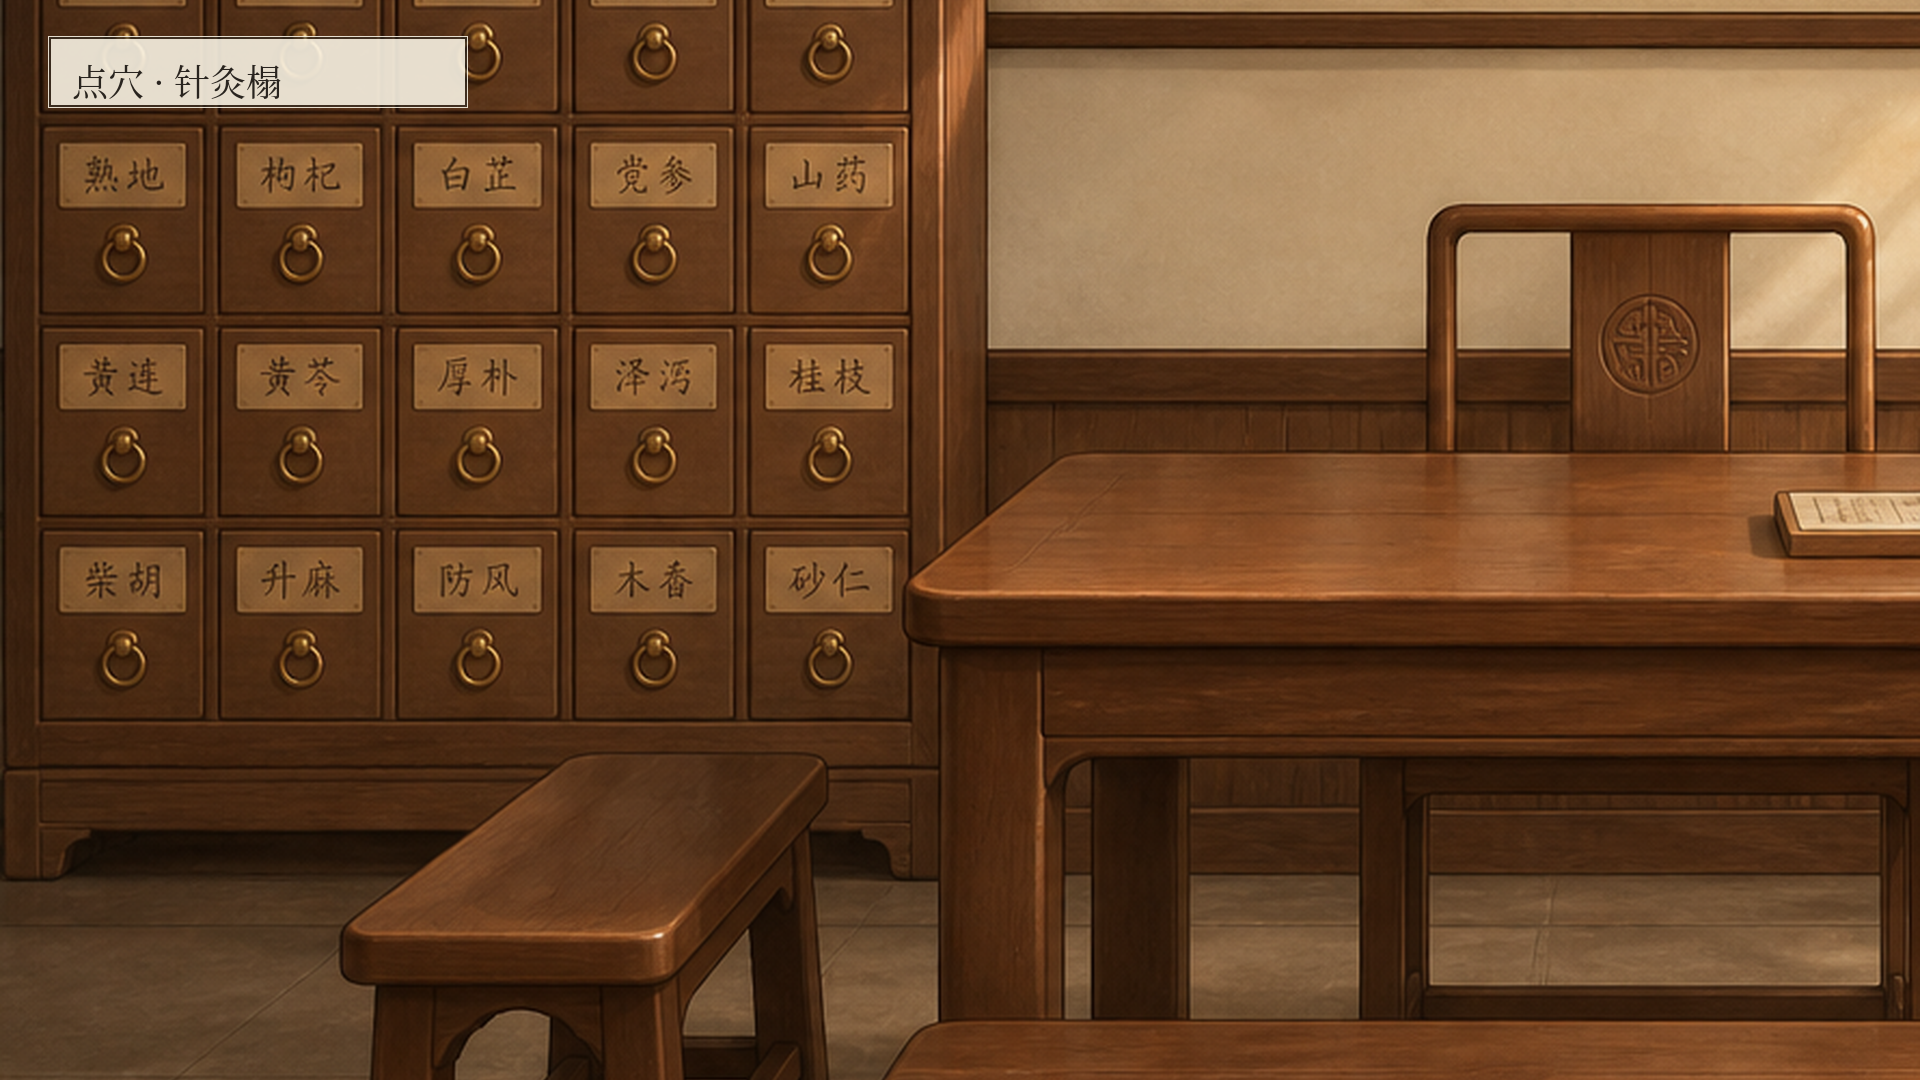
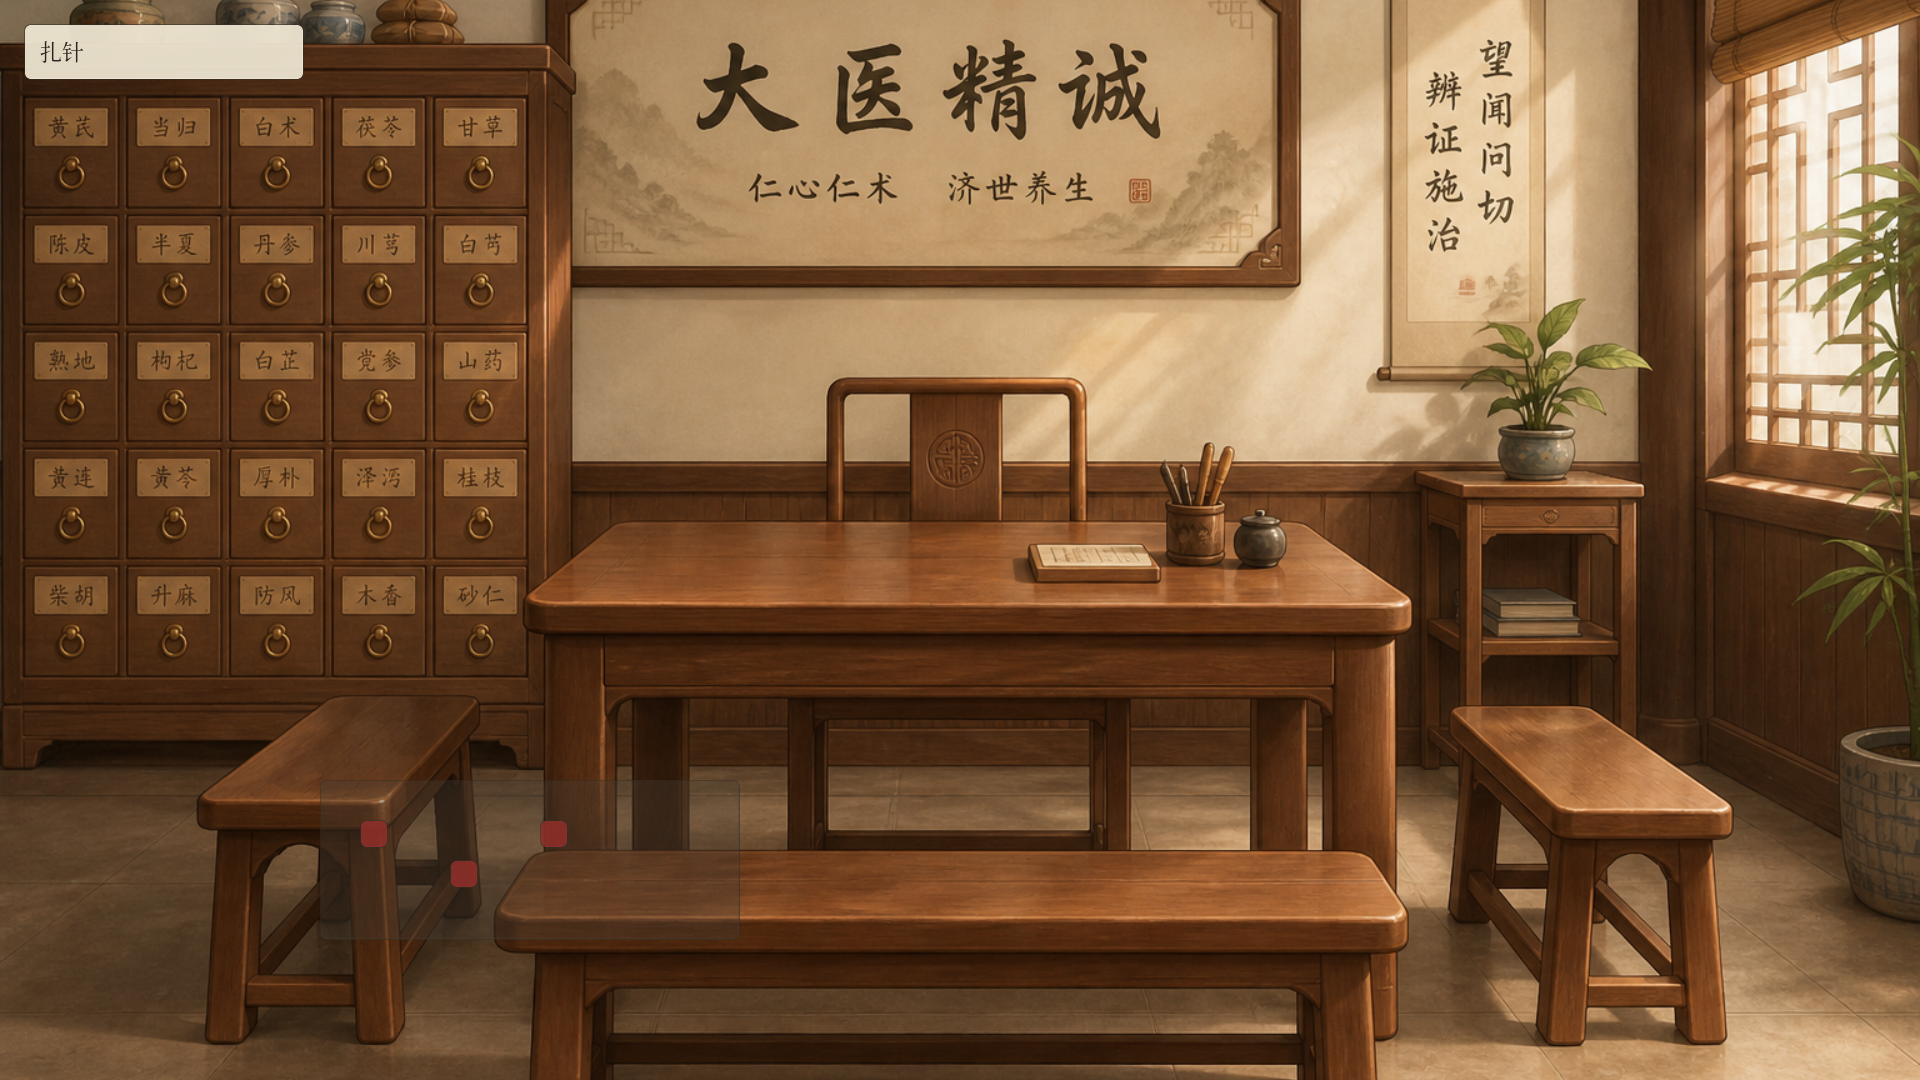
缺问苏问舟旁白入诊室坞；新建筑重截商店 FORMULA/NEEDLE/RESULT。
SMOKE 断言 mentor_missing_ask；附 DEV-TASKS-V120。secrets.env 仍 gitignore。

diff --git a/DEV-TASKS-V120.md b/DEV-TASKS-V120.md
@@ -1,0 +1,60 @@
+# 《墨问岐黄》开发任务 V120（收圆可玩日）
+
+日期：2026-09-06  
+下发：全局统筹 → 开发负责人 → 小组  
+前置：V119 已验收并推送 `01b3fed`  
+依据：设定包 v1.19；本期不扩大到情缘/穿越/全表药材
+
+## 目标
+
+把「杏林小筑可玩日」从冒烟可过，收成 **手操也顺** 的一圈：
+
+开馆免责 → 接阿福（或三案之一）→ 四诊 + 十问 → **缺问时苏问舟真的出旁白** → 开方或扎针（反畏仍硬锁）→ 看到对证分 M / 疗效 → **一句回访或病程钩子** → 可接下一位。
+
+## 完成标准
+
+1. 手操缺「寒热」或「汗」时，苏问舟冒出疑问句旁白（不报方不报证）；补问后可出「这一问有了。」同诊 ≤2 句。
+2. 小荷至少在候诊条或药柜报警时说一句 UI 口吻（仍不代诊、不可点）。
+3. 结算屏能看懂 M（或快/稳/准/温里与 M 对齐的展示），合法路径向愈，反畏拖药仍弹回并给短因。
+4. 治疗后有回访/病程一句（可本地模板，不必接 LLM）。
+5. `./run_godot.sh --headless res://scenes/smoke.tscn` 仍 PASS；新增旁白冒烟（可另加 smoke 断言）。
+6. 推到 `Gideon-li/2dshot-game` main；`secrets.env` 不进库。
+
+## 分工（由你转发）
+
+### 开发负责人
+- 对齐本文件与仓库现状；验收手操一圈；推送。
+- 拦范围：不做情缘、刁难全开、气机透视、节气/地域乘数实装（J=T=1 保持）。
+
+### 游戏逻辑设计
+- 接线：四诊旗 + 十问覆盖 → 触发 `mentor_cue`；同诊计数。
+- 结算展示字段与 `evaluate()` 对齐；回访钩子数据结构（下一次进馆可读）。
+- 小荷代诊仍不做；只留「馆规：低危可代」注释/开关默认关。
+
+### 剧本设计
+- 确认三案 `mentor.case_cues` / `exam_missing_cues` 中英日每条都是疑问句。
+- 小荷候诊/药柜各 ≥3 句短口吻；回访一句/案。
+- 禁止问舟说诊断名、方名。
+
+### 游戏角色开发
+- 运行时真正弹出问舟旁白（现在数据在、要保证 UI 可见）。
+- 小荷 UI 气泡；结算与回访表现。
+- Helix 保持；失败回退。
+
+### 游戏美工设计
+- 问舟旁白气泡、小荷小表情/角标（极简即可）。
+- 若 CAM_ASK 仍是旧图，按江晚+现行病人补一版。
+
+### 游戏场景设计（按需）
+- 仅当旁白/候诊锚点缺热区时补；相机与热区默认不动。
+
+### 其他要素 / 音乐（按需）
+- 旁白出现轻音（已有 chime/stamp 可复用）；i18n 键补齐旁白与小荷句。
+
+## 不做
+
+情缘谱、刁难再诊池、气机观、J/T 实装、600/500 全表、Steam 上架操作、扩大地图。
+
+## 回我
+
+手操一圈录 30–60 秒或给商店新截图 + commit。缺口只报阻塞。
